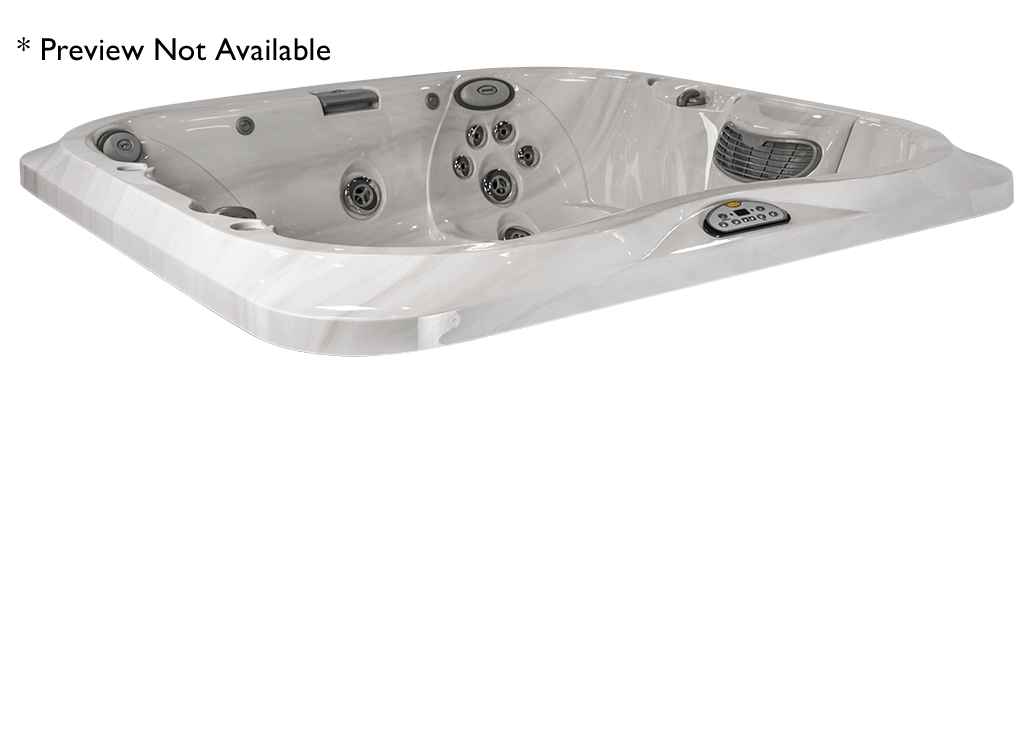
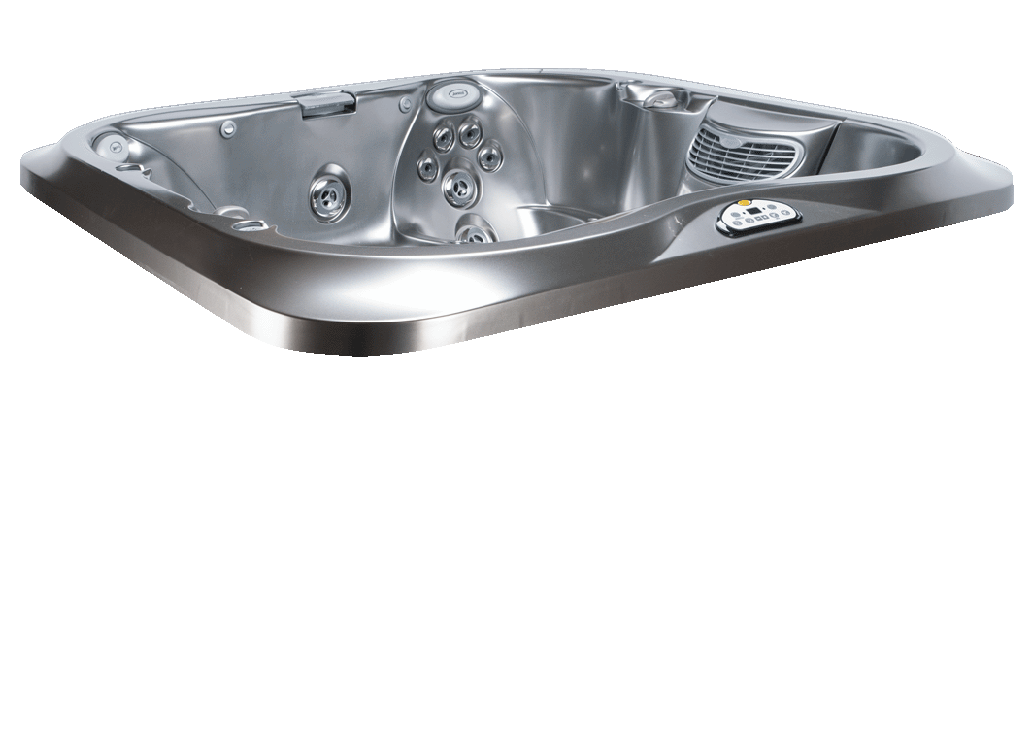
Color Selector - Titanium

Changed region(s): [[0.0, 0.0604, 0.999, 0.513]]

diff --git a/block-color_selector.php b/block-color_selector.php
@@ -71,7 +71,7 @@ div[timg="silverwood"] img { background-color: #635e5f; }
 					<img class="lazy" data-original="<?php echo get_stylesheet_directory_uri(); ?>/images/colorselector/shells/sand.png" timg="sand" height="410" width="576" />
 					<img class="lazy" data-original="<?php echo get_stylesheet_directory_uri(); ?>/images/colorselector/shells/desertsand.png" timg="desertsand" height="410" width="576" />
 					<img class="lazy" data-original="<?php echo get_stylesheet_directory_uri(); ?>/images/colorselector/shells/caribbeansurf.png" timg="caribbeansurf" height="410" width="576" />
-					<!--img src="<?php echo get_stylesheet_directory_uri(); ?>/images/colorselector/shells/titanium.png" timg="titanium" height="410" width="576" /-->
+					<img src="<?php echo get_stylesheet_directory_uri(); ?>/images/colorselector/shells/titanium.png" timg="titanium" height="410" width="576" />
 					<!--img src="<?php echo get_stylesheet_directory_uri(); ?>/images/colorselector/shells/slategreen.png" timg="slategreen" height="410" width="576" /-->
 				</div>
 			</div>
@@ -100,7 +100,7 @@ div[timg="silverwood"] img { background-color: #635e5f; }
 				<div class="shell thumb" timg="sand" data-pdf="sand" rel="Sand" ><img class="lazy" src="<?php echo get_stylesheet_directory_uri(); ?>/images/colorselector/shells/acrylic-thumb-sand.png" height="45" width="45" /></div>
 				<div class="shell thumb" timg="desertsand" data-pdf="desertsand" rel="Desert Sand" ><img class="lazy" data-original="<?php echo get_stylesheet_directory_uri(); ?>/images/colorselector/shells/acrylic-thumb-desertsand.png" height="45" width="45" /></div>
 				<div class="shell thumb" timg="caribbeansurf" data-pdf="caribbeansurf" rel="Caribbean Surf" ><img class="lazy" data-original="<?php echo get_stylesheet_directory_uri(); ?>/images/colorselector/shells/acrylic-thumb-caribbeansurf.png" height="45" width="45" /></div>
-				<!--div class="shell thumb" timg="titanium" data-pdf="titanium" rel="Titanium" ><img src="<?php echo get_stylesheet_directory_uri(); ?>/images/colorselector/shells/acrylic-thumb-titanium.png" height="45" width="45" /></div-->
+				<div class="shell thumb" timg="titanium" data-pdf="titanium" rel="Titanium" ><img src="<?php echo get_stylesheet_directory_uri(); ?>/images/colorselector/shells/acrylic-thumb-titanium.png" height="45" width="45" /></div>
 				<!--div class="shell thumb" timg="slategreen" data-pdf="slategreen" rel="Slate Green" ><img src="<?php echo get_stylesheet_directory_uri(); ?>/images/colorselector/shells/acrylic-thumb-slategreen.png" height="45" width="45" /></div-->
 			</div>
 			<h2><strong>Cabinetry:</strong> <span class="skirt-name"></span></h2>

diff --git a/block-color_selector_blank.php b/block-color_selector_blank.php
@@ -70,7 +70,7 @@ div[timg="silverwood"] img { background-color: #635e5f; }
 					<img src="<?php echo get_stylesheet_directory_uri(); ?>/images/lowres-colorselector/shells/sand.png" timg="sand" height="410" width="576" />
 					<img src="<?php echo get_stylesheet_directory_uri(); ?>/images/lowres-colorselector/shells/desertsand.png" timg="desertsand" height="410" width="576" />
 					<img src="<?php echo get_stylesheet_directory_uri(); ?>/images/lowres-colorselector/shells/caribbeansurf.png" timg="caribbeansurf" height="410" width="576" />
-					<!--img src="<?php echo get_stylesheet_directory_uri(); ?>/images/lowres-colorselector/shells/titanium.png" timg="titanium" height="410" width="576" /-->
+					<img src="<?php echo get_stylesheet_directory_uri(); ?>/images/lowres-colorselector/shells/titanium.png" timg="titanium" height="410" width="576" />
 					<!--img src="<?php echo get_stylesheet_directory_uri(); ?>/images/lowres-colorselector/shells/slategreen.png" timg="slategreen" height="410" width="576" /-->
 				</div>
 			</div>
@@ -99,7 +99,7 @@ div[timg="silverwood"] img { background-color: #635e5f; }
 				<div class="shell thumb" timg="sand" data-pdf="sand" rel="Sand" ><img src="<?php echo get_stylesheet_directory_uri(); ?>/images/lowres-colorselector/shells/acrylic-thumb-sand.png" height="45" width="45" /></div>
 				<div class="shell thumb" timg="desertsand" data-pdf="desertsand" rel="Desert Sand" ><img src="<?php echo get_stylesheet_directory_uri(); ?>/images/lowres-colorselector/shells/acrylic-thumb-desertsand.png" height="45" width="45" /></div>
 				<div class="shell thumb" timg="caribbeansurf" data-pdf="caribbeansurf" rel="Caribbean Surf" ><img src="<?php echo get_stylesheet_directory_uri(); ?>/images/lowres-colorselector/shells/acrylic-thumb-caribbeansurf.png" height="45" width="45" /></div>
-				<!--div class="shell thumb" timg="titanium" data-pdf="titanium" rel="Titanium" ><img src="<?php echo get_stylesheet_directory_uri(); ?>/images/lowres-colorselector/shells/acrylic-thumb-titanium.png" height="45" width="45" /></div-->
+				<div class="shell thumb" timg="titanium" data-pdf="titanium" rel="Titanium" ><img src="<?php echo get_stylesheet_directory_uri(); ?>/images/lowres-colorselector/shells/acrylic-thumb-titanium.png" height="45" width="45" /></div>
 				<!--div class="shell thumb" timg="slategreen" data-pdf="slategreen" rel="Slate Green" ><img src="<?php echo get_stylesheet_directory_uri(); ?>/images/lowres-colorselector/shells/acrylic-thumb-slategreen.png" height="45" width="45" /></div-->
 			</div>
 			<h2><strong>Cabinetry:</strong> <span class="skirt-name"></span></h2>
